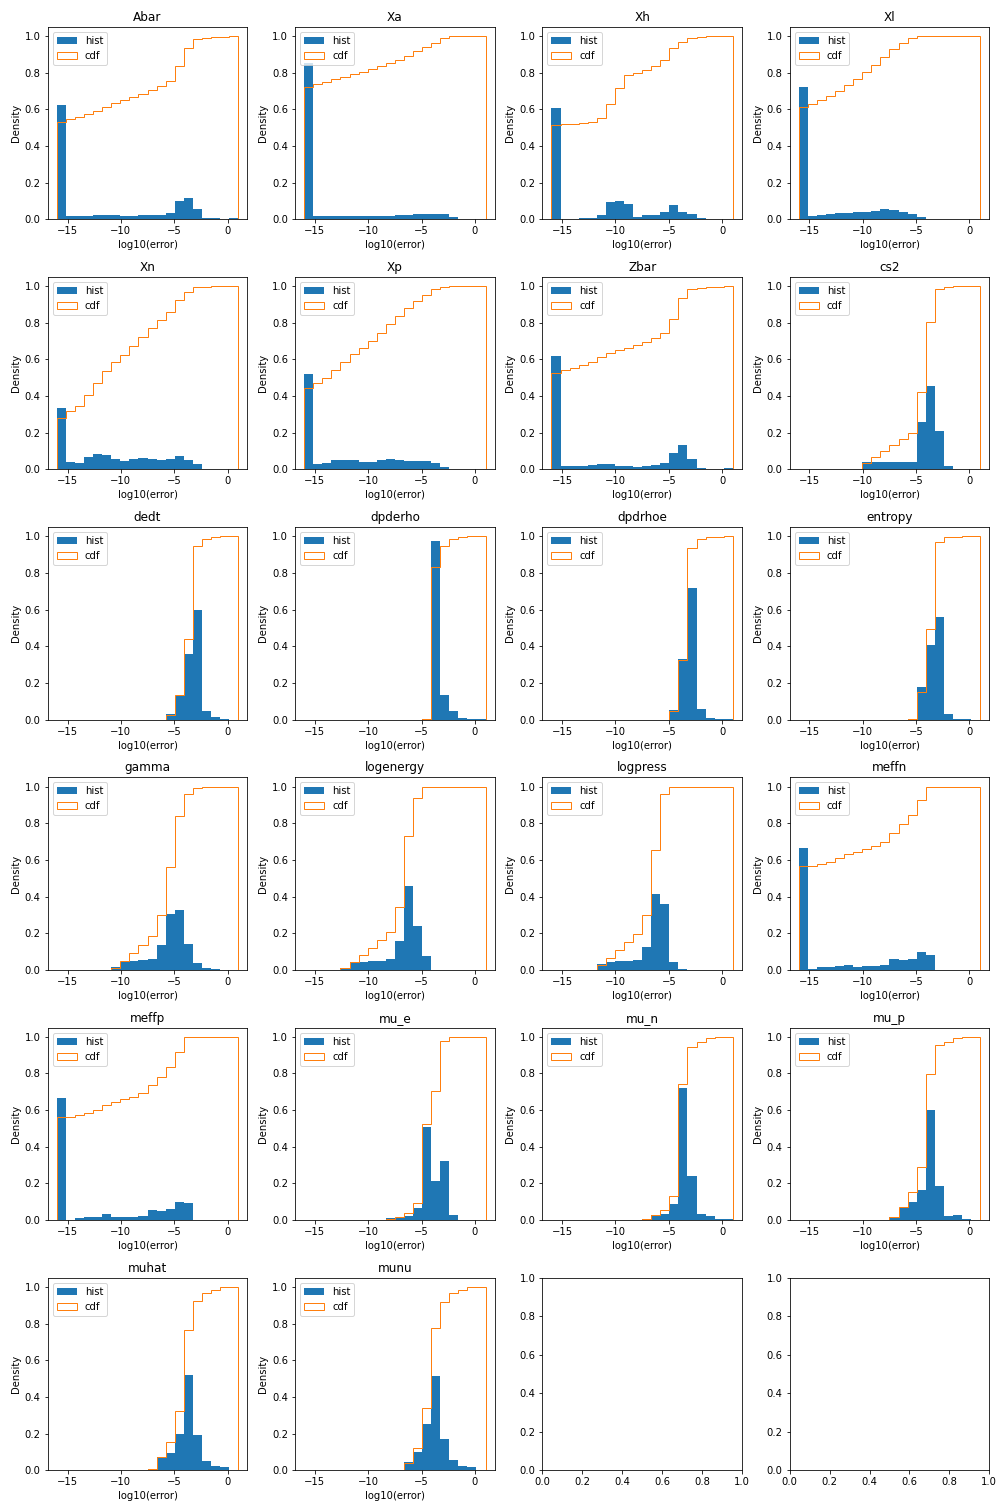
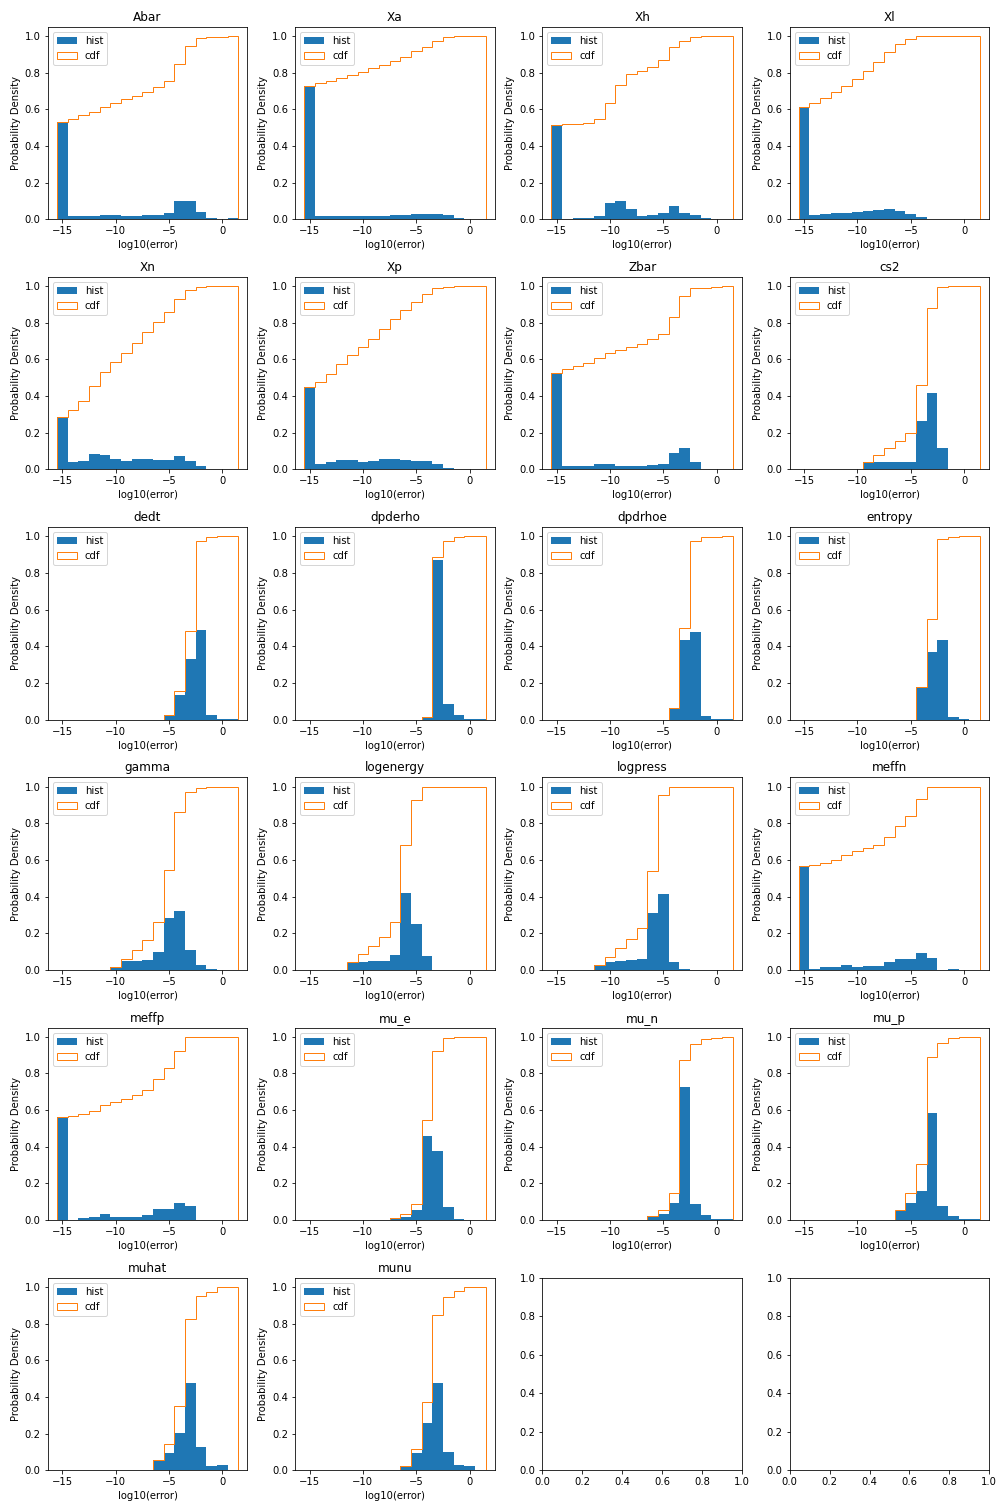
Updated various function and added more error estimations

diff --git a/FSHo_emulator/build_FSHo_emulator.py b/FSHo_emulator/build_FSHo_emulator.py
@@ -1,5 +1,5 @@
 import os
-
+import sys
 import matplotlib.pyplot as plt
 
 from data_loading_functions.load_test_data import load_test_data
@@ -13,7 +13,7 @@ Build the emulator for the SFHo EOS
 if __name__ == "__main__":
     # ------- Edit the details here ------- #
     # Directory where the emulator should be saved. Will be created if it does note exist.
-    save_directory = "./emulators/"
+    save_directory = "./emulators_lin_log/"
     cpp_source_dir = '../cpp_emulator'
     # Load table
     EOS_file = "../../tables/Hempel_SFHoEOS_rho222_temp180_ye60_version_1.1_20120817.h5"
@@ -46,53 +46,56 @@ if __name__ == "__main__":
         'munu': True
     }
 
-    N = 10
-    num_vars = len(vars.keys())
-    errors = np.logspace(-10, -1, N)[::-1]
-    sizes = np.zeros([N, num_vars])
+    N = 1
+    assert(len(sys.argv) == 2)
+    var = sys.argv[1]
+    # errors = np.logspace(-10, -1, N)[::-1]
+    errors = [-1.0]
+    # sizes = np.zeros([N, num_vars])
     for i in range(N):
-        for j, key in enumerate(vars.keys()):
-            # Name of emulator. This will be used to construct the name used when calling the compiled version and
-            # -- and determining the filenames of the various saved files.
-            # -- It should not contain spaces, nasty special characters or a file extension
-            emulator_name = f"FSHo_{key}_linear_err{errors[i]:0.2e}"
+        # for j, key in enumerate(vars.keys()):
+        # Name of emulator. This will be used to construct the name used when calling the compiled version and
+        # -- and determining the filenames of the various saved files.
+        # -- It should not contain spaces, nasty special characters or a file extension
+        emulator_name = f"FSHo_{var}_d7_max"  #linear_err{errors[i]:0.2e}"
 
-            # Specify model types
-            # -- add each model type to the list in the format of a dict {'type': name, ...}
-            model_classes = [{'type': 'nd-linear'}]
+        # Specify model types
+        # -- add each model type to the list in the format of a dict {'type': name, ...}
+        model_classes = [{'type': 'nd-linear', 'transforms': None}, {'type': 'nd-linear', 'transforms': 'log'}]
 
-            # set tree parameters
-            # -- Make sure the depth of the tree is not so deep that there is not enough data
-            # -- for example. If the smallest values in dims is 2**3+1, then the max depth you
-            # -- can choose is 3.
-            max_depth = 100  # as much refinement as needed.
-            error_threshold = errors[i]
-            max_test_points = 100       # The max number of points to eval in a cell when estimating the error
-            relative_error = relative_error_dict[key]      # Whether or not the error threshold is absolute or relative error
+        # set tree parameters
+        # -- Make sure the depth of the tree is not so deep that there is not enough data
+        # -- for example. If the smallest values in dims is 2**3+1, then the max depth you
+        # -- can choose is 3.
+        max_depth = 7  # as much refinement as needed.
+        error_threshold = errors[i]
+        max_test_points = 100       # The max number of points to eval in a cell when estimating the error
+        relative_error = relative_error_dict[var]      # Whether or not the error threshold is absolute or relative error
 
-            # create the emulator (should not need to modify this)
-            emulator = build_emulator(vars[key], max_depth, domain, spacing, error_threshold, model_classes,
-                                    max_test_points=max_test_points, relative_error=relative_error,
-                                    expand_index_domain=True, error_type="RMSE")
+        # create the emulator (should not need to modify this)
+        emulator = build_emulator(vars[var], max_depth, domain, spacing, error_threshold, model_classes,
+                                max_test_points=max_test_points, relative_error=relative_error,
+                                expand_index_domain=True, error_type="RMSE")
 
-            # ------- No not edit below here ------- #
-            # create folder to save files in
-            if not os.path.isdir(save_directory):
-                os.makedirs(save_directory)
+        # ------- No not edit below here ------- #
+        # create folder to save files in
+        if not os.path.isdir(save_directory):
+            os.makedirs(save_directory)
 
-            # save compact emulator
-            sizes[i, j] = emulator.save(save_directory, emulator_name, return_file_size=True)
-            #
-            # make_cpp_emulator(save_directory, emulator_name, cpp_source_dir)
+        # save compact emulator
+        size = emulator.save(save_directory, emulator_name, return_file_size=True)
+        print(f"Var: {var}, error: {errors[i]:0.2e}, size: {size}")
+        #
+        # make_cpp_emulator(save_directory, emulator_name, cpp_source_dir)
 
-    for i in range(num_vars):
-        plt.plot(sizes[:, i], errors)
-        plt.yscale('log')
-        plt.ylabel("Error Threshold")
-        plt.xlabel("Table Size")
-        plt.title("Abar Emulator Size")
-    plt.savefig("./emulators/size_vs_error.png")
-    np.save('./emulators/sizes', sizes)
-    np.save('./emulators/errors', errors)
+    # for i in range(num_vars):
+    #     plt.plot(sizes[:, i], errors)
+    #     plt.yscale('log')
+    #     plt.ylabel("Error Threshold")
+    #     plt.xlabel("Table Size")
+    #     plt.title("Abar Emulator Size")
+    # plt.savefig("./emulators/size_vs_error.png")
+    # np.save('./emulators/sizes', sizes)
+    # np.save('./emulators/errors', errors)
 
     print('done')

diff --git a/build_emulator.py b/build_emulator.py
@@ -1,6 +1,7 @@
 import os
 from data_loading_functions.load_test_data import load_test_data
 from nd_emulator import build_emulator, make_cpp_emulator
+from data_loading_functions.load_SRO import load_SRO_EOS
 import subprocess
 import sys
 import shutil
@@ -14,28 +15,24 @@ Save directory:
 if __name__ == "__main__":
     # ------- Edit the details here ------- #
     # If the emulator has already been made, but you want to regenerate the C++ library set to True
-    skip_emulator_creation = False
+    skip_emulator_creation = True
     # Directory where the emulator should be saved. Will be created if it does note exist.
-    save_directory = "./test"
+    save_directory = "./profiling"
     cpp_source_dir = './cpp_emulator'
     # Name of emulator. This will be used to construct the name used when calling the compiled version and
     # -- and determining the filenames of the various saved files.
     # -- It should not contain spaces, nasty special characters or a file extension
-    emulator_name = "testing"
+    emulator_name = "test1"
 
     if not skip_emulator_creation:
-        # Specify domain and number of points in each dimension
-        # -- Note that the number of points should equal 2^a-1 for some integer a for best performance
-        # -- the spacing should be how the points are spaced. They must be evenly spaced, but
-        # -- that spacing can be in linear or log space.
-        domain = [[0, 1], [2, 3]]
-        dims = [2**3+1, 2**4+1]
-        spacing = ['linear', 'linear']
 
         # Load function data
         # -- You should create your own function to load your data and put it in the data_loading_functions folder
         # -- where you can call it from.
-        data = load_test_data(dims, domain)
+        filepath = "../tables/SRO_training_rho1025_temp513_ye129_gitM6eba730_20210624.h5"
+        data_raw, domain = load_SRO_EOS(filepath)
+        data = data_raw['Abar']
+        spacing = ['linear', 'linear', 'linear']
 
         # Specify model types
         # -- add each model type to the list in the format of a dict {'type': name, ...}
@@ -45,14 +42,15 @@ if __name__ == "__main__":
         # -- Make sure the depth of the tree is not so deep that there is not enough data
         # -- for example. If the smallest values in dims is 2**3+1, then the max depth you
         # -- can choose is 3.
-        max_depth = 3
-        error_threshold = 1e-2
-        max_test_points = 100       # The max number of points to eval in a cell when estimating the error
+        max_depth = 9
+        error_threshold = -1.0 
+        max_test_points = 1       # The max number of points to eval in a cell when estimating the error
         relative_error = False      # Whether or not the error threshold is absolute or relative error
 
         # create the emulator (should not need to modify this)
         emulator = build_emulator(data, max_depth, domain, spacing, error_threshold, model_classes,
-                                  max_test_points=max_test_points, relative_error=relative_error)
+                                  max_test_points=max_test_points, relative_error=relative_error,
+                                  expand_index_domain=True)
 
     # ------- No not edit below here ------- #
     # create folder to save files in

diff --git a/cpp_emulator/emulator/emulator_externs.cpp b/cpp_emulator/emulator/emulator_externs.cpp
@@ -8,34 +8,31 @@
 #define POINT_GROUPING double* points[3] = {x,y,z}
 #define POINT_ARG x, y, z
 
-extern "C" {
-Emulator<ND_TREE_EMULATOR_TYPE>* ND_TREE_EMULATOR_NAME_SETUP(const char* filename) {
-    return new Emulator<ND_TREE_EMULATOR_TYPE>(filename);
-}
-void ND_TREE_EMULATOR_NAME_INTERPOLATE(Emulator<ND_TREE_EMULATOR_TYPE>* emulator, double** points, size_t num_points, double* return_array) {
-    emulator->interpolate(points, num_points, return_array);
-}
-void ND_TREE_EMULATOR_NAME_FREE(Emulator<ND_TREE_EMULATOR_TYPE>* emulator){
-    free(emulator);
-}
-}
+// extern "C" {
+// Emulator<ND_TREE_EMULATOR_TYPE>* ND_TREE_EMULATOR_NAME_SETUP(const char* filename) {
+//     return new Emulator<ND_TREE_EMULATOR_TYPE>(filename);
+// }
+// void ND_TREE_EMULATOR_NAME_INTERPOLATE(Emulator<ND_TREE_EMULATOR_TYPE>* emulator, double** points, size_t num_points, double* return_array) {
+//     emulator->interpolate(points, num_points, return_array);
+// }
+// void ND_TREE_EMULATOR_NAME_FREE(Emulator<ND_TREE_EMULATOR_TYPE>* emulator){
+//     free(emulator);
+// }
+// }
 
-//extern "C" {
-//    void ND_TREE_EMULATOR_NAME_SETUP(const char* filename, void*& emulator) {
-//        // std::cout << "Loading emulator from file at " << filename << std::endl;
-//        emulator = (void*)(new Emulator<ND_TREE_EMULATOR_TYPE>(filename));
-//        // std::cout << "emulator: " << emulator << std::endl;
-//    }
-////    void ND_TREE_EMULATOR_NAME_INTERPOLATE(void*& emulator, POINT_INPUTS, size_t& num_points, double* return_array) {
-////        POINT_GROUPING;
-////        ((Emulator<ND_TREE_EMULATOR_TYPE> *)emulator)->interpolate(points, num_points, return_array);
-////    }
-//    void ND_TREE_EMULATOR_NAME_INTERPOLATE(void*& emulator, double** points, size_t& num_points, double* return_array) {
-//        ((Emulator<ND_TREE_EMULATOR_TYPE> *)emulator)->interpolate(points, num_points, return_array);
-//    }
-//    void ND_TREE_EMULATOR_NAME_FREE(void*& emulator){
-//
-//        // std::cout << "emulator to delete: " << emulator << std::endl;
-//        delete((Emulator<ND_TREE_EMULATOR_TYPE>*)emulator);
-//    }
-//}
+extern "C" {
+   void ND_TREE_EMULATOR_NAME_SETUP(const char* filename, void*& emulator) {
+       // std::cout << "Loading emulator from file at " << filename << std::endl;
+       emulator = (void*)(new Emulator<ND_TREE_EMULATOR_TYPE>(filename));
+       // std::cout << "emulator: " << emulator << std::endl;
+   }
+   void ND_TREE_EMULATOR_NAME_INTERPOLATE(void*& emulator, POINT_INPUTS, size_t& num_points, double* return_array) {
+       POINT_GROUPING;
+       ((Emulator<ND_TREE_EMULATOR_TYPE> *)emulator)->interpolate(points, num_points, return_array);
+   }
+   void ND_TREE_EMULATOR_NAME_FREE(void*& emulator){
+
+       // std::cout << "emulator to delete: " << emulator << std::endl;
+       delete((Emulator<ND_TREE_EMULATOR_TYPE>*)emulator);
+   }
+}

diff --git a/data_loading_functions/load_SRO.py b/data_loading_functions/load_SRO.py
@@ -1,15 +1,16 @@
 import h5py
 import numpy as np
 
-def load_SRO_EOS(filepath):
+def load_SRO_EOS(filepath, vars_to_load=None):
     """
     Loads the SRO EOS from a hdf5 file. The ranges are saved as [ye, log(T), log(rho)]
     :param filepath: (str)
+    :param vars_to_load: None or list(stings) If None all are loaded. If a list of string, each var in the list is loaded
     :return: [list of dictionaries, domain]
     """
     EPS = 10 ** -12
     f_vars = [
-        "Abar", "Xa", "Xh", "Xl", "Xn", "Xp", "Zbar", "Zlbar", "cs2", 
+        "Abar", "Albar", "Xa", "Xh", "Xl", "Xn", "Xp", "Zbar", "Zlbar", "cs2", 
         "dedt", "dpderho", "dpdrhoe", "entropy", "gamma", "logenergy", 
         "logpress", "meffn", "meffp", "mu_e", "mu_n", "mu_p", "muhat", 
         "munu", "r", "u"]
@@ -33,8 +34,12 @@ def load_SRO_EOS(filepath):
 
         # load data
         data = {}
-        for key in f_vars:
-            data[key] = {'f': file[key][...]}
+        if vars_to_load is None:
+            for key in f_vars:
+                data[key] = {'f': file[key][...]}
+        else:
+            for key in vars_to_load:
+                data[key] = {'f': file[key][...]}
     return data, domain
 
 

diff --git a/SRO_emulator/error_estimation/compute_errors.py b/SRO_emulator/error_estimation/compute_errors.py
@@ -45,7 +45,7 @@ if __name__ == "__main__":
 
     # Specify model types
     # -- add each model type to the list in the format of a dict {'type': name, ...}
-    model_classes = [{'type': 'nd-linear'}]
+    model_classes = [{'type': 'nd-linear'},  {'type': 'nd-linear', 'transforms':'log'}]
     error_type = 'RMSE'
 
     # set tree parameters
@@ -70,11 +70,18 @@ if __name__ == "__main__":
 
     # get non-virtual leaf nodes
     E = []
+    num_log_models = 0
+    num_linear_models = 0
     for leaf in leaves:
         if leaf['error'] is not None:
             E.append(leaf['error'])
+            if leaf['model']['type']['transforms'] is None:
+                num_linear_models += 1
+            else:
+                num_log_models += 1
     errors_1 = np.array(E)
-    np.save(f'./error_data/errors_{key}', errors_1)
+    np.save(f'./error_data_log_model_class/errors_{key}', errors_1)
+    print(f'{key}_linear:{num_linear_models}_log{num_log_models}')
     # # save errors at each level
     # for i in range(len(E)):
     #     current_node = tree.root

diff --git a/cpp_emulator/emulator/table_params.h b/cpp_emulator/emulator/table_params.h
@@ -2,7 +2,7 @@
 #undef ND_TREE_EMULATOR_NAME_SETUP
 #undef ND_TREE_EMULATOR_NAME_INTERPOLATE
 #undef ND_TREE_EMULATOR_NAME_FREE
-#define ND_TREE_EMULATOR_TYPE unsigned short, unsigned char, 1, 2, 12, 96
-#define ND_TREE_EMULATOR_NAME_SETUP miss_aligned_2d_extended_emulator_setup
-#define ND_TREE_EMULATOR_NAME_INTERPOLATE miss_aligned_2d_extended_emulator_interpolate
-#define ND_TREE_EMULATOR_NAME_FREE miss_aligned_2d_extended_emulator_free
+#define ND_TREE_EMULATOR_TYPE unsigned long, unsigned long, 1, 3, 8388608, 117440512
+#define ND_TREE_EMULATOR_NAME_SETUP test1_emulator_setup
+#define ND_TREE_EMULATOR_NAME_INTERPOLATE test1_emulator_interpolate
+#define ND_TREE_EMULATOR_NAME_FREE test1_emulator_free

diff --git a/data_loading_functions/load_Hempel_SFHoEOS.py b/data_loading_functions/load_Hempel_SFHoEOS.py
@@ -2,7 +2,7 @@ import h5py
 import numpy as np
 
 
-def load_SFHo_EOS(filepath):
+def load_SFHo_EOS(filepath, vars_to_load=None):
     """
     Loads the Hempel_SFHoEOS EOS from a hdf5 file. The ranges are saved as [ye, log(T), log(rho)]
     :param filepath: (str)
@@ -32,8 +32,12 @@ def load_SFHo_EOS(filepath):
 
         # load data
         data = {}
-        for key in f_vars:
-            data[key] = {'f': file[key][...]}
+        if vars_to_load is None:
+            for key in f_vars:
+                data[key] = {'f': file[key][...]}
+        else:
+            for key in vars_to_load:
+                data[key] = {'f': file[key][...]}
     return data, domain
 
 
